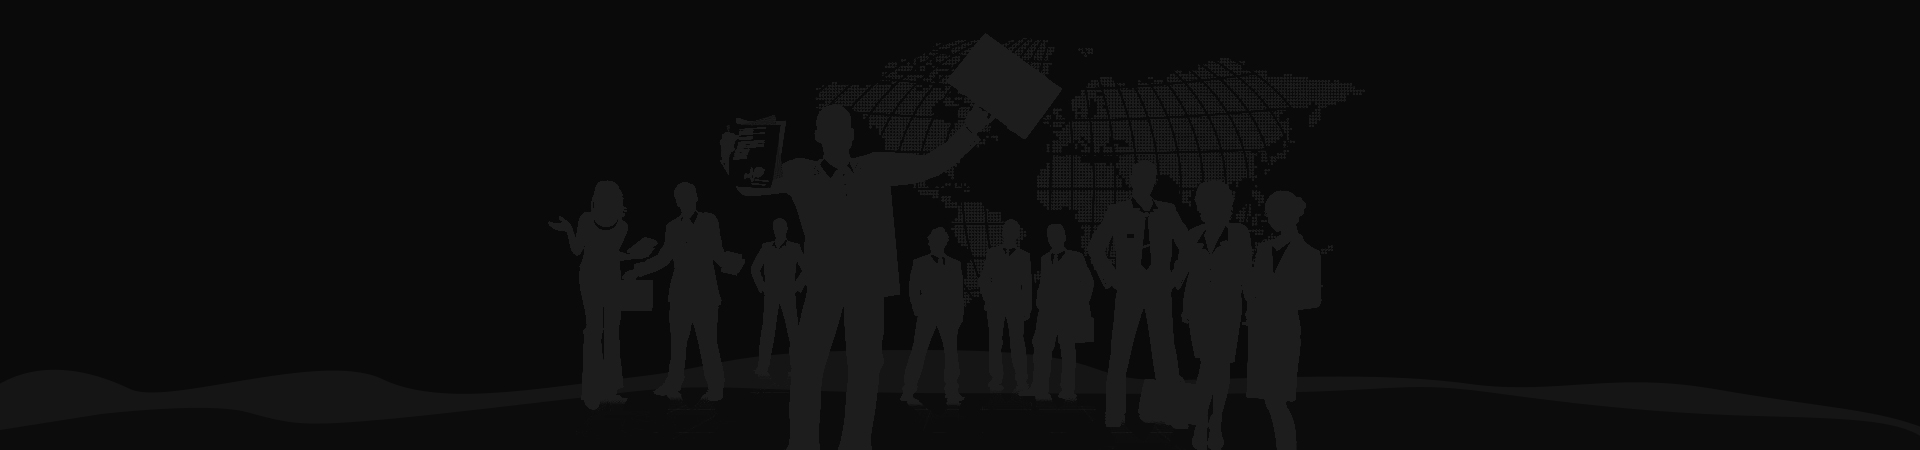
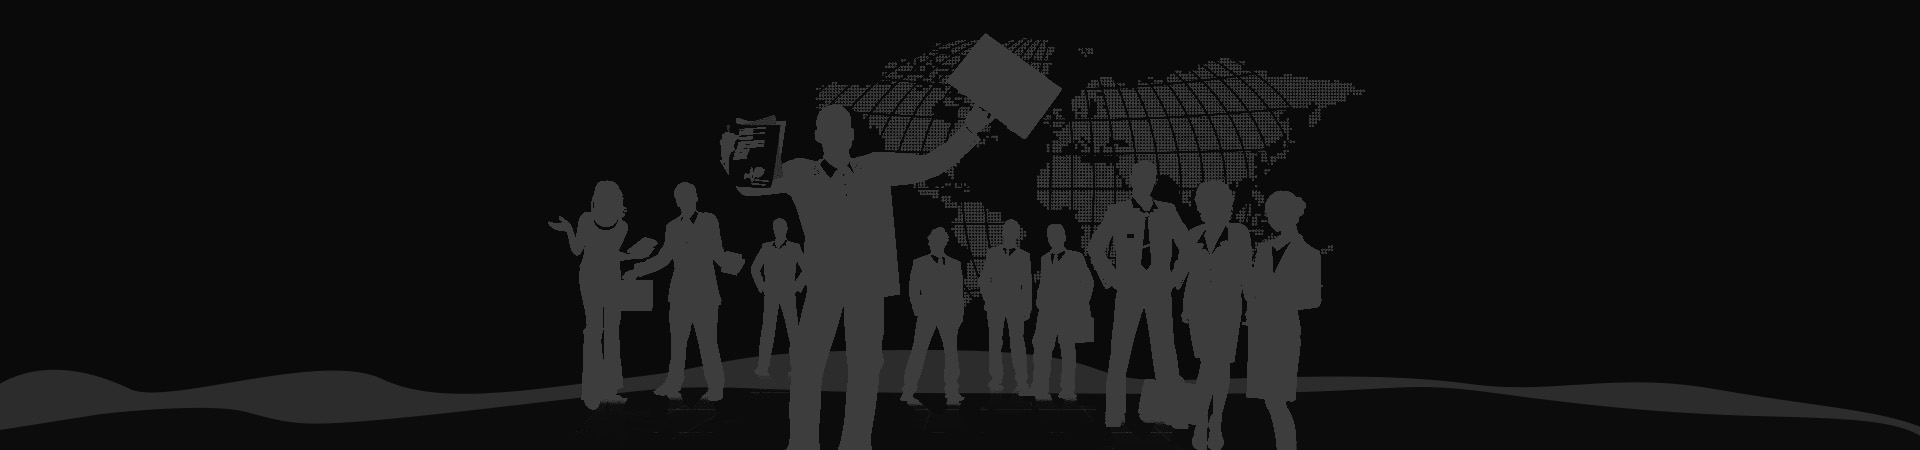
updated

Changed region(s): [[0.2812, 0.0622, 0.7188, 1.0]]

diff --git a/resources/views/front/about.blade.php b/resources/views/front/about.blade.php
@@ -1,7 +1,7 @@
 @extends('front.layouts.app')
 
 @section('content')
-<div class="page-title page-title dark-background" style="background: linear-gradient(rgba(0, 0, 0, 0.5), rgba(0, 0, 0, 0.5)),  url('{{ asset('assets/img/topBanner/Our-Story-top-banner.jpg') }}'); background-size: cover; background-position: center; background-repeat: no-repeat; height: 50vh;">
+<div class="page-title page-title dark-background" style="background: linear-gradient(rgba(0, 0, 0, 0.5), rgba(0, 0, 0, 0.5)),  url('{{ asset('assets/img/Our-Story-top-banner.jpg') }}'); background-size: cover; background-position: center; background-repeat: no-repeat; height: 50vh;">
     <div class="container">
         <h1>Our Story</h1>
     </div>

diff --git a/resources/views/front/events.blade.php b/resources/views/front/events.blade.php
@@ -1,7 +1,7 @@
 @extends('front.layouts.app')
 
 @section('content')
-<div class="page-title page-title dark-background" style="background: linear-gradient(rgba(0, 0, 0, 0.5), rgba(0, 0, 0, 0.5)),  url('{{ asset('assets/img/topBanner/Life At ROIPL.jpg') }}'); background-size: cover; background-position: center; background-repeat: no-repeat; height: 50vh;">
+<div class="page-title page-title dark-background" style="background: linear-gradient(rgba(0, 0, 0, 0.5), rgba(0, 0, 0, 0.5)),  url('{{ asset('assets/img/Life At ROIPL.jpg') }}'); background-size: cover; background-position: center; background-repeat: no-repeat; height: 50vh;">
     <div class="container">
         <h1>Life at ROIPL</h1>
     </div>

diff --git a/resources/views/front/careers.blade.php b/resources/views/front/careers.blade.php
@@ -1,7 +1,7 @@
 @extends('front.layouts.app')
 
 @section('content')
-    <div class="page-title page-title dark-background" style="background:   url('{{ asset('assets/img/topBanner/Careers.jpg') }}'); background-size: cover; background-position: center; background-repeat: no-repeat; height: 50vh;">
+    <div class="page-title page-title dark-background" style="background: linear-gradient(rgba(0, 0, 0, 0.5), rgba(0, 0, 0, 0.5)),  url('{{ asset('assets/img/topBanner/Our-Story-top-banner.jpg') }}'); background-size: cover; background-position: center; background-repeat: no-repeat; height: 50vh;">
         <div class="container">
             <h1>Careers</h1>
         </div>

diff --git a/resources/views/front/teams.blade.php b/resources/views/front/teams.blade.php
@@ -1,7 +1,7 @@
 @extends('front.layouts.app')
 
 @section('content')
-<div class="page-title page-title dark-background" style="background:   url('{{ asset('assets/img/topBanner/Teams-top-banner.jpg') }}'); background-size: cover; background-position: center; background-repeat: no-repeat; height: 50vh;">
+<div class="page-title page-title dark-background" style="background: linear-gradient(rgba(0, 0, 0, 0.5), rgba(0, 0, 0, 0.5)),  url('{{ asset('assets/img/Teams-top-banner.jpg') }}'); background-size: cover; background-position: center; background-repeat: no-repeat; height: 50vh;">
     <div class="container">
         <h1>Teams</h1>
     </div>
